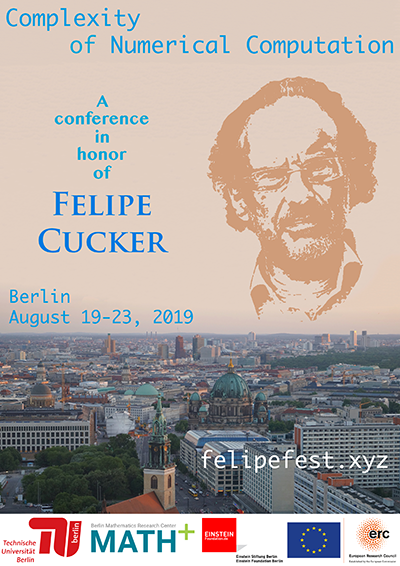
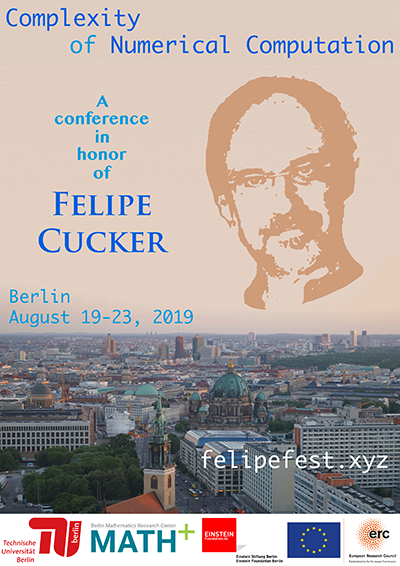
Change in image of Felipe

diff --git a/index.html b/index.html
@@ -66,7 +66,7 @@
     
 <span itemscope itemtype="http://schema.org/EducationEvent"><div class="jumbotron">
       <div class="container">
-        <center> <h2 class="display-4"><b itemprop="name">Complexity of numerical computation</h2><h2><img itemprop="image" src="imgs/FelipeVNZ.png" align="centre" width="20%" height="18%"/></h2><h3>A conference in honor of Felipe Cucker</b> </center>
+        <center> <h2 class="display-4"><b itemprop="name">Complexity of numerical computation</h2><h2><img itemprop="image" src="imgs/FelipeC.png" align="centre" width="20%" height="18%"/></h2><h3>A conference in honor of Felipe Cucker</b> </center>
 	<center><h4>
 <meta itemprop="startDate" content="2019-08-19">August 19 - 23, 2019<meta itemprop="endDate" content="2019-08-23"></h4></center>
         <p itemprop="description" align="justify">This <meta itemprop="offers" content="Conference" itemscope itemtype="http://schema.org/Offer">conference will take place in Berlin from the 19th to the 23rd of August 2019. <meta itemprop="performer" content="Colleagues and friends of Felipe Cucker" itemscope itemtype="http://schema.org/Person">Colleagues and friends of Felipe Cucker will celebrate his 60th birthday presenting talks on the complexity of numerical computation and related topics. Additionally, the conference will have a lecture by Felipe on art and mathematics and an exhibition of the art project <i>Approximation Theory</i> in which Felipe took part. Every person in Berlin with an interest in mathematics is welcome to attend the conference.

diff --git a/poster.html b/poster.html
@@ -80,7 +80,7 @@
        	</div>
 	  <div class="col-md-12">
           <p align="justify">The image of the poster consist of a picture of Felipe Cucker, edited to the format of just one color, with the background of a picture of Berlin, taken by Tamara Bürgisser, with its sky extended. The paster was designed by Josu&eacute Tonelli-Cueto.</p>
-	  <p align="justify">A complete version of the poster can be downloaded in this <a href="poster/poster0.jpg">link</a>. Alternative discarded versions of the poster can be found in <a href="poster/poster2.jpg">this link</a> and <a href="poster/poster1.jpg">this other link</a>.</p>
+	  <p align="justify">A complete version of the poster can be downloaded in this <a href="poster/poster0.jpg">link</a>. Alternative discarded versions of the poster can be found in <a href="poster/poster1.jpg">this link</a> and <a href="poster/poster2.jpg">this other link</a>.</p>
 	</div>
         <div>
         </div>
